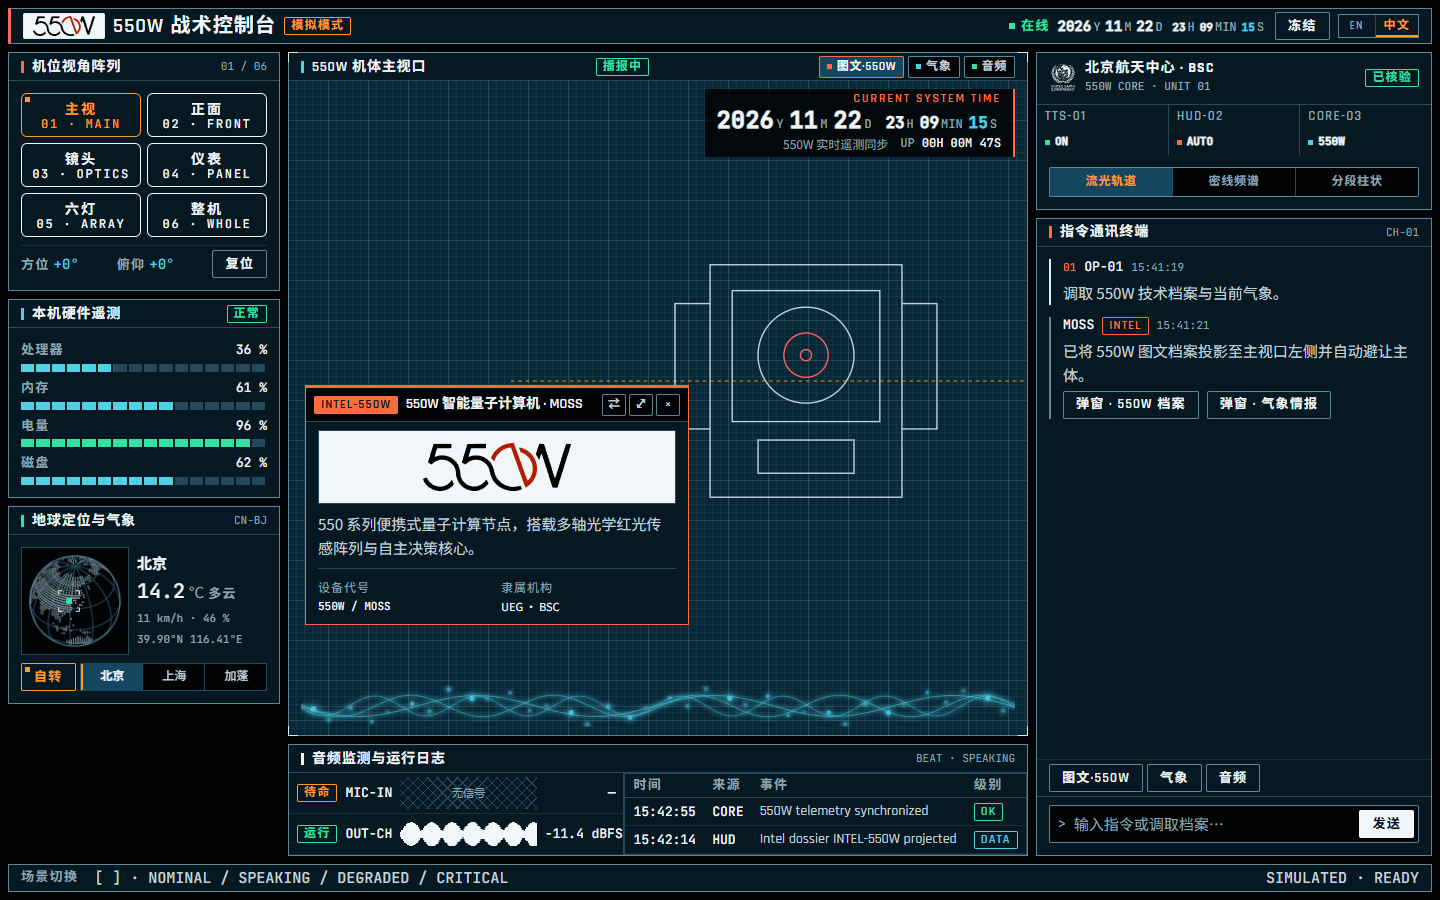
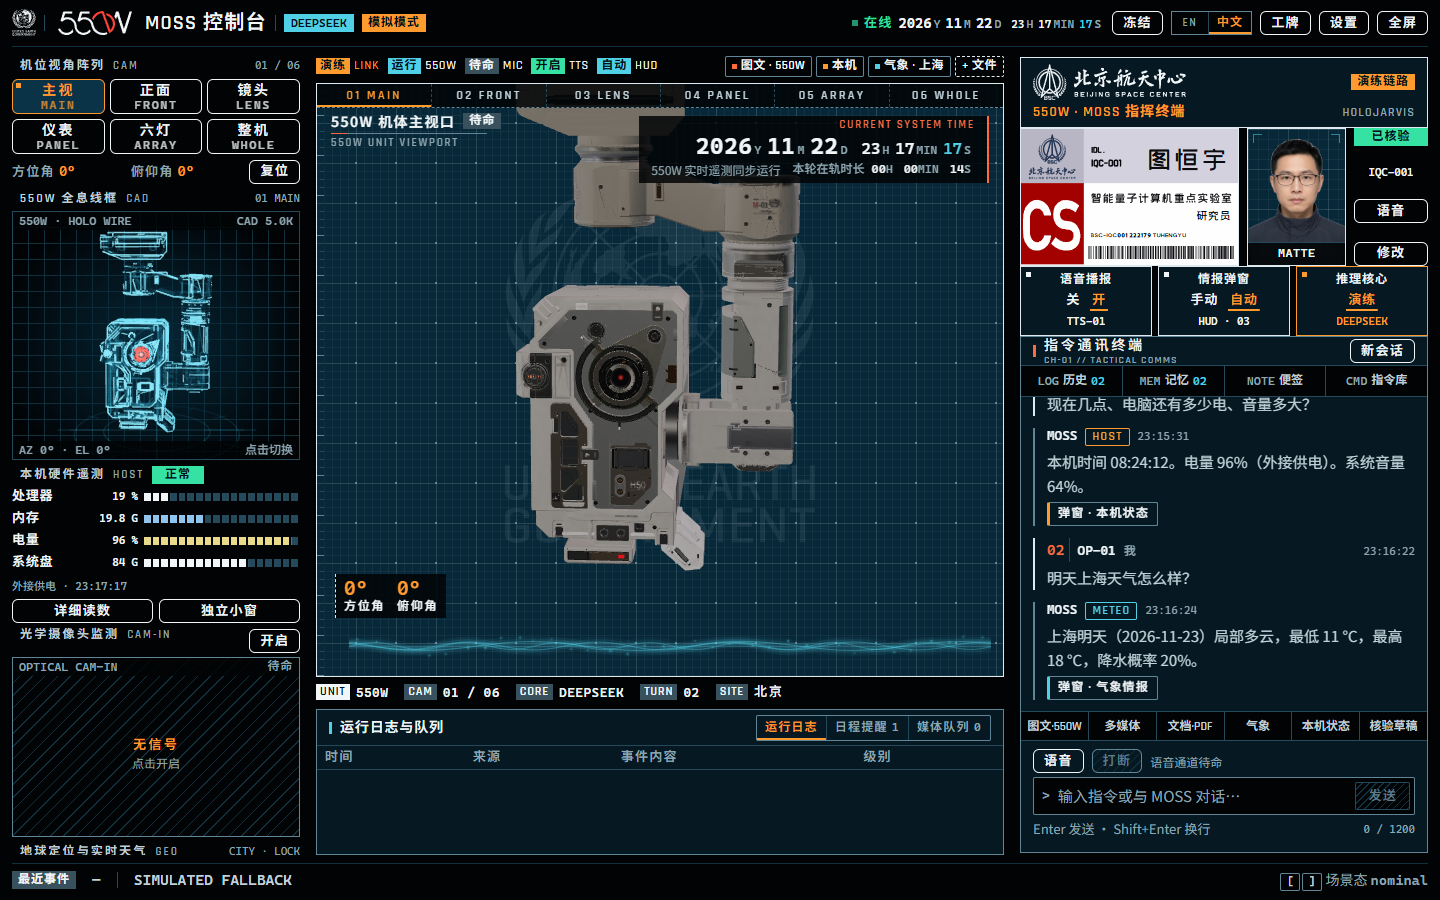
docs: refresh tactical console preview screenshot with latest 3D 550W UI and Tu Hengyu ID badge

diff --git a/README.md b/README.md
@@ -16,7 +16,7 @@ Film-grade aerospace FUI (Fictional / Futuristic User Interface) translated into
 
 ## Previews
 
-### 1. Tactical Command Console (`assets/tactical.html`)
+### 1. Live 3D Tactical Command Console Showcase (starter: `assets/tactical.html`)
 *Recommended for rich 3D, AI assistant, multimodal, and multi-subsystem consoles: 3-column zero-void frame, 3px semantic vertical header ticks (`data-accent`), Behance split-unit chronometer (`.fui-chrono`), subject-avoiding contextual HUD viewers (`.fui-hud-card`), tactile segmented/matrix pickers, controllable rotating dot-matrix globe + site weather, transparent floating `drawOrbit` voice wave, compact 3-tile mode deck, and always-on `.fui-chat`.*
 
 ![Tactical Command Console Preview](./docs/preview-tactical-zh.png)

diff --git a/README.zh-CN.md b/README.zh-CN.md
@@ -16,7 +16,7 @@
 
 ## 实机预览
 
-### 1. 战术指挥控制台（`assets/tactical.html`）
+### 1. 实机 3D 战术指挥控制台展示（零依赖模板：`assets/tactical.html`）
 *推荐用于 3D 孪生、AI 助手、多模态与多子系统控制台：零空洞三栏结构、3px 面板语义竖标（`data-accent`）、Behance 原片同款分单位纪元时钟（`.fui-chrono`）、自动避让主体的上下文 HUD 浮窗查看器（`.fui-hud-card`）、触感矩阵/分段选择器（替代丑陋原生 `<select>`）、可控慢速自转点阵地球仪 + 实时气象、透明悬浮流光声纹（`drawOrbit`）、紧致三瓦片模式板与常驻 `.fui-chat` 指令通讯终端。*
 
 ![战术指挥控制台预览](./docs/preview-tactical-zh.png)
